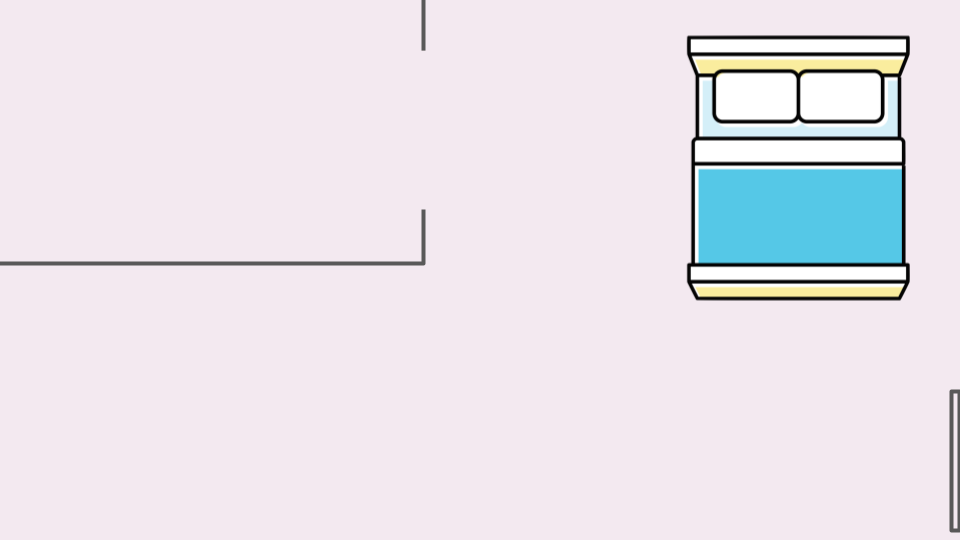
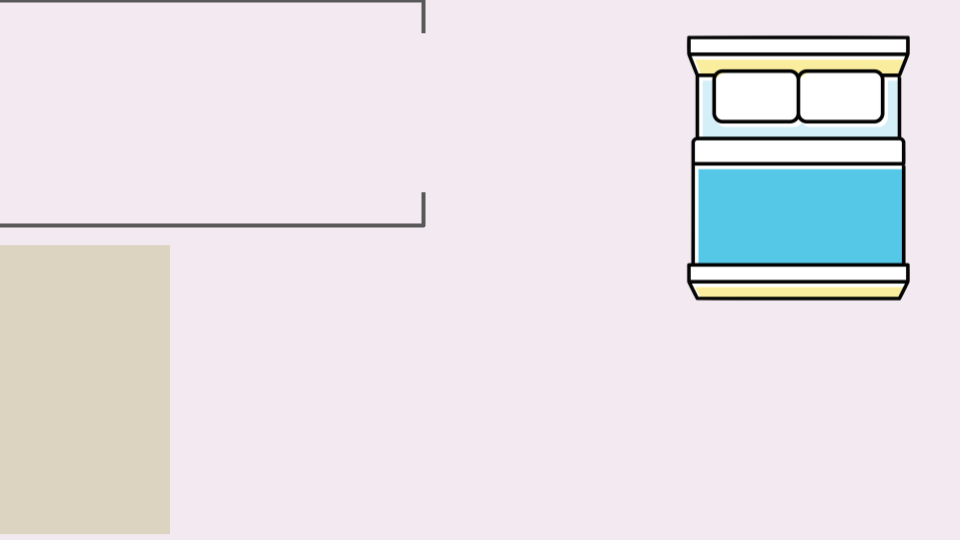
added more optionality + win/lose messages

diff --git a/game.py b/game.py
@@ -19,11 +19,20 @@ class Game:
         # Initializing images
         self.background = pygame.image.load("images/background.png")
         self.brush_img = pygame.image.load("images/brush.png")
+        self.door_img = pygame.image.load("images/door.png")
+        self.purpshirt_img = pygame.image.load("images/purple.png")
+        self.pinkshirt_img = pygame.image.load("images/pink.png")
 
         # Sprites
         self.objects = pygame.sprite.Group()
-        self.brush = Object(self, self.brush_img, 200, 150)
+        self.brush = Object(self, self.brush_img, 275, 25, 65, 65, "brush")
         self.objects.add(self.brush)
+        self.door = Object(self, self.door_img, 920, 350, 50, 175, "door")
+        self.objects.add(self.door)
+        self.purpshirt = Object(self, self.purpshirt_img, 50, 275, 75, 90, "purple shirt")
+        self.objects.add(self.purpshirt)
+        self.pinkshirt = Object(self, self.pinkshirt_img, 50, 400, 75, 90, "pink shirt")
+        self.objects.add(self.pinkshirt)
         self.player = GameBot(self, self.START_X, self.START_Y)
 
         # Last clicked coordinates
@@ -42,24 +51,21 @@ class Game:
         font = pygame.font.Font(None, 36)
 
         # Set countdown time (in seconds)
-        countdown_time = 10
-        current_time = countdown_time
+        countdown_time = 15000
 
         # Draw the initial screen
         self.screen.blit(self.background, (0, 0)) 
         self.objects.draw(self.screen)
         self.player.draw(self.screen)
-        
 
         while running:
             # If the time runs up, the game is over
-            if current_time == 0:
-                running = False
+            if countdown_time <= 0:
                 self.player.update("time's up")
 
-            
             # Set fps to 120
             self.dt += self.clock.tick(120)
+            countdown_time -= self.clock.tick(120)
 
             # Handle closing the window
             for event in pygame.event.get():
@@ -75,23 +81,73 @@ class Game:
                         self.last_clickedx = mouse_x
                         self.last_clickedy = mouse_y
                         self.player.update("item clicked")
+                    
+                    elif self.door.rect.collidepoint(mouse_x, mouse_y):
+                        self.last_clickedx = mouse_x
+                        self.last_clickedy = mouse_y
+                        self.player.update("item clicked")
+
+                    elif self.purpshirt.rect.collidepoint(mouse_x, mouse_y):
+                        self.last_clickedx = mouse_x
+                        self.last_clickedy = mouse_y
+                        self.player.update("item clicked")
+
+                    elif self.pinkshirt.rect.collidepoint(mouse_x, mouse_y):
+                        self.last_clickedx = mouse_x
+                        self.last_clickedy = mouse_y
+                        self.player.update("item clicked")
             
-            # If the player is in action and collides with brush, state should change and timer should be set to zero
+            # If the player is in action and collides with objects, state should change and timer should be set to zero
             collided_objs = pygame.sprite.spritecollide(self.player, self.objects, False)
             print(collided_objs)
             if self.player.get_state() == "ia" and len(collided_objs) > 0:
-                self.dt = 0
-                self.player.update("reached item")
+                if self.door in collided_objs:
+                    print(self.door)
+                    self.player.update("at door")
+                elif self.brush in collided_objs:
+                    self.dt = 0
+                    self.player.update("reached brush")
+                elif self.pinkshirt in collided_objs or self.purpshirt in collided_objs:
+                    self.dt = 0
+                    self.player.update("reached shirts")
             
-            elif self.player.get_state() == "bh" and self.dt > 8000:
+            elif self.player.get_state() == "bh" and self.dt > 2000:
+                self.player.update("action complete")
+
+            elif self.player.get_state() == "ch" and self.dt > 1500:
                 self.player.update("action complete")
 
             self.player.update()
-            
+
             # Draw to the screen
             self.screen.blit(self.background, (0, 0)) 
             self.objects.draw(self.screen)
             self.player.draw(self.screen)
+
+            # Display the countdown
+            if self.player.game_over == False:
+                countdown_text = font.render(f"Time: {countdown_time / 1000}", True, (0, 0, 0))
+                self.screen.blit(countdown_text, (400, 50))
+            
+            # Display action
+            if self.player.get_state() == "bh":
+                text = font.render(f"brushing hair...", True, (0, 0, 0))
+                self.screen.blit(text, (300, 500))
+            elif self.player.get_state() == "ch":
+                text = font.render(f"changing...", True, (0, 0, 0))
+                self.screen.blit(text, (350, 500))
+
+            # Game over
+            if self.player.game_over == True:
+                countdown_time = 3000
+                font = pygame.font.Font(None, 100)
+            
+                if self.player.winner == True:
+                    end_text = font.render(f"YOU WON!!!", True, (0, 0, 0))
+                else:
+                    end_text = font.render(f"YOU LOST :(", True, (0, 0, 0))
+            
+                self.screen.blit(end_text, (300, 200))
 
             # Update the display
             pygame.display.flip()
@@ -104,4 +160,4 @@ if __name__ == "__main__":
     game = Game()
     game.run()
 
-# look at clicking and how to know if a sprite has been clicked in pygame
+# implementing timer and see how to check if they are at the door

diff --git a/player.py b/player.py
@@ -3,7 +3,7 @@ from fsm import FSM
 
 class GameBot(pygame.sprite.Sprite):
     # States
-    NEUTRAL, IN_ACTION, WALKING, WON, LOST, BRUSHING_HAIR = "n", "ia", "wa", "wo", "l", "bh"
+    NEUTRAL, IN_ACTION, WALKING, WON, LOST, BRUSHING_HAIR, CHANGING = "n", "ia", "wa", "wo", "l", "bh", "ch"
 
     def __init__(self, game, x=50, y=50):
         super().__init__()
@@ -11,14 +11,20 @@ class GameBot(pygame.sprite.Sprite):
         self.game = game
 
         # Load initial image
-        self.image = pygame.image.load("images/neutral_girl.png")
-        self.rect = self.image.get_rect()
-        self.image = pygame.transform.scale(self.image, (110, 180))
+        self.images = [pygame.image.load("images/messyneutral.png"), pygame.image.load("images/messypink.png"), pygame.image.load("images/messypurple.png"), pygame.image.load("images/neutral_girl.png"), pygame.image.load("images/girlhotpink.png"), pygame.image.load("images/girlpurple.png")]
+        for i in range (6):
+            self.images[i] = pygame.transform.scale(self.images[i], (110, 180))
+            self.rect = self.images[i].get_rect()
 
+        # Clothing index
+        self.indx = 0
+
+        self.winner = False
+        self.game_over = False
 
         # Set rectangle
-        self.width = self.image.get_width()
-        self.height = self.image.get_height()
+        self.width = self.images[0].get_width()
+        self.height = self.images[0].get_height()
         self.rect.centerx = x
         self.rect.centery = y
 
@@ -29,46 +35,70 @@ class GameBot(pygame.sprite.Sprite):
     def init_fsm(self):
         # Add more here for the other states with actions
         self.fsm.add_transition("action complete", self.BRUSHING_HAIR, None, self.NEUTRAL)
-        
+        self.fsm.add_transition("action complete", self.CHANGING, None, self.NEUTRAL)
+
         #TODO: implement lose + win (in game function), and brushing hair (tbd)
         self.fsm.add_transition("time's up", self.NEUTRAL, self.lose, self.LOST)
         self.fsm.add_transition("time's up", self.IN_ACTION, self.lose, self.LOST)
         self.fsm.add_transition("time's up", self.BRUSHING_HAIR, self.lose, self.LOST)
+        self.fsm.add_transition("time's up", self.CHANGING, self.lose, self.LOST)
         self.fsm.add_transition("at door", self.IN_ACTION, self.win, self.WON)
 
-        self.fsm.add_transition("item clicked", self.NEUTRAL, self.move, self.IN_ACTION)
+        self.fsm.add_transition(None, self.IN_ACTION, self.move, self.IN_ACTION)
+        self.fsm.add_transition(None, self.NEUTRAL, None, self.NEUTRAL)
+        self.fsm.add_transition(None, self.BRUSHING_HAIR, None, self.BRUSHING_HAIR)
+        self.fsm.add_transition(None, self.CHANGING, None, self.CHANGING)
+        self.fsm.add_transition(None, self.WON, self.win, self.WON)
+        self.fsm.add_transition(None, self.LOST, self.lose, self.LOST)
 
-        self.fsm.add_transition("reached item", self.IN_ACTION, self.brush_hair, self.BRUSHING_HAIR)
+
+        self.fsm.add_transition("item clicked", self.NEUTRAL, self.move, self.IN_ACTION)
+        self.fsm.add_transition("item clicked", self.BRUSHING_HAIR, None, self.BRUSHING_HAIR)
+        self.fsm.add_transition("item clicked", self.CHANGING, None, self.CHANGING)
+
+        self.fsm.add_transition("reached brush", self.IN_ACTION, self.brush_hair, self.BRUSHING_HAIR)
+        self.fsm.add_transition("reached shirts", self.IN_ACTION, self.change, self.CHANGING)
         
     def get_state(self):
         return self.fsm.current_state
     
-    def move (self):
+    def move(self):
         x = self.game.last_clickedx
         y = self.game.last_clickedy
         if self.rect.x <= x:
-            self.rect.x += 5
+            self.rect.x += 3
         elif self.rect.x >= x:
-            self.rect.x -= 5
+            self.rect.x -= 3
 
         if self.rect.y <= y:
-            self.rect.y += 5
+            self.rect.y += 3
         elif self.rect.y >= y:
-            self.rect.y -= 5
+            self.rect.y -= 3
 
     def brush_hair(self):
-        pass
+        if self.indx < 3:
+            self.indx += 3
+    
+    def change(self):
+        if self.indx < 2:
+            self.indx += 1
+        elif self.indx == 2:
+            self.indx = 0
+        elif self.indx < 5:
+            self.indx += 1
+        elif self.indx == 5:
+            self.indx = 3
 
     def lose(self):
-        pass
+        self.game_over = True
 
     def win(self):
-        pass
+        self.game_over = True
+        self.winner = True
      
     def update(self, input = None):
         print(input, self.fsm.current_state)
         self.fsm.process(input)
-        # make sure to change image based on different conditions
     
     def draw(self, screen):
-        screen.blit(self.image, (self.rect.x , self.rect.y))
+        screen.blit(self.images[self.indx], (self.rect.x , self.rect.y))

diff --git a/objects.py b/objects.py
@@ -2,14 +2,15 @@
 import pygame
 
 class Object(pygame.sprite.Sprite):
-    def __init__(self, game, image, x=50, y=50):
+    def __init__(self, game, image, x=50, y=50, w=100, h=100, name=None):
             super().__init__()
 
             self.game = game
             self.image = image
+            self.name = name
 
             # Load initial image
-            self.image = pygame.transform.scale(self.image, (115, 115))
+            self.image = pygame.transform.scale(self.image, (w, h))
             self.rect = self.image.get_rect()
 
             # Set rectangle
@@ -20,3 +21,6 @@ class Object(pygame.sprite.Sprite):
 
     def draw(self, screen):
         screen.blit(self.image, (self.rect.x, self.rect.y))
+    
+    def __repr__(self):
+         return self.name
